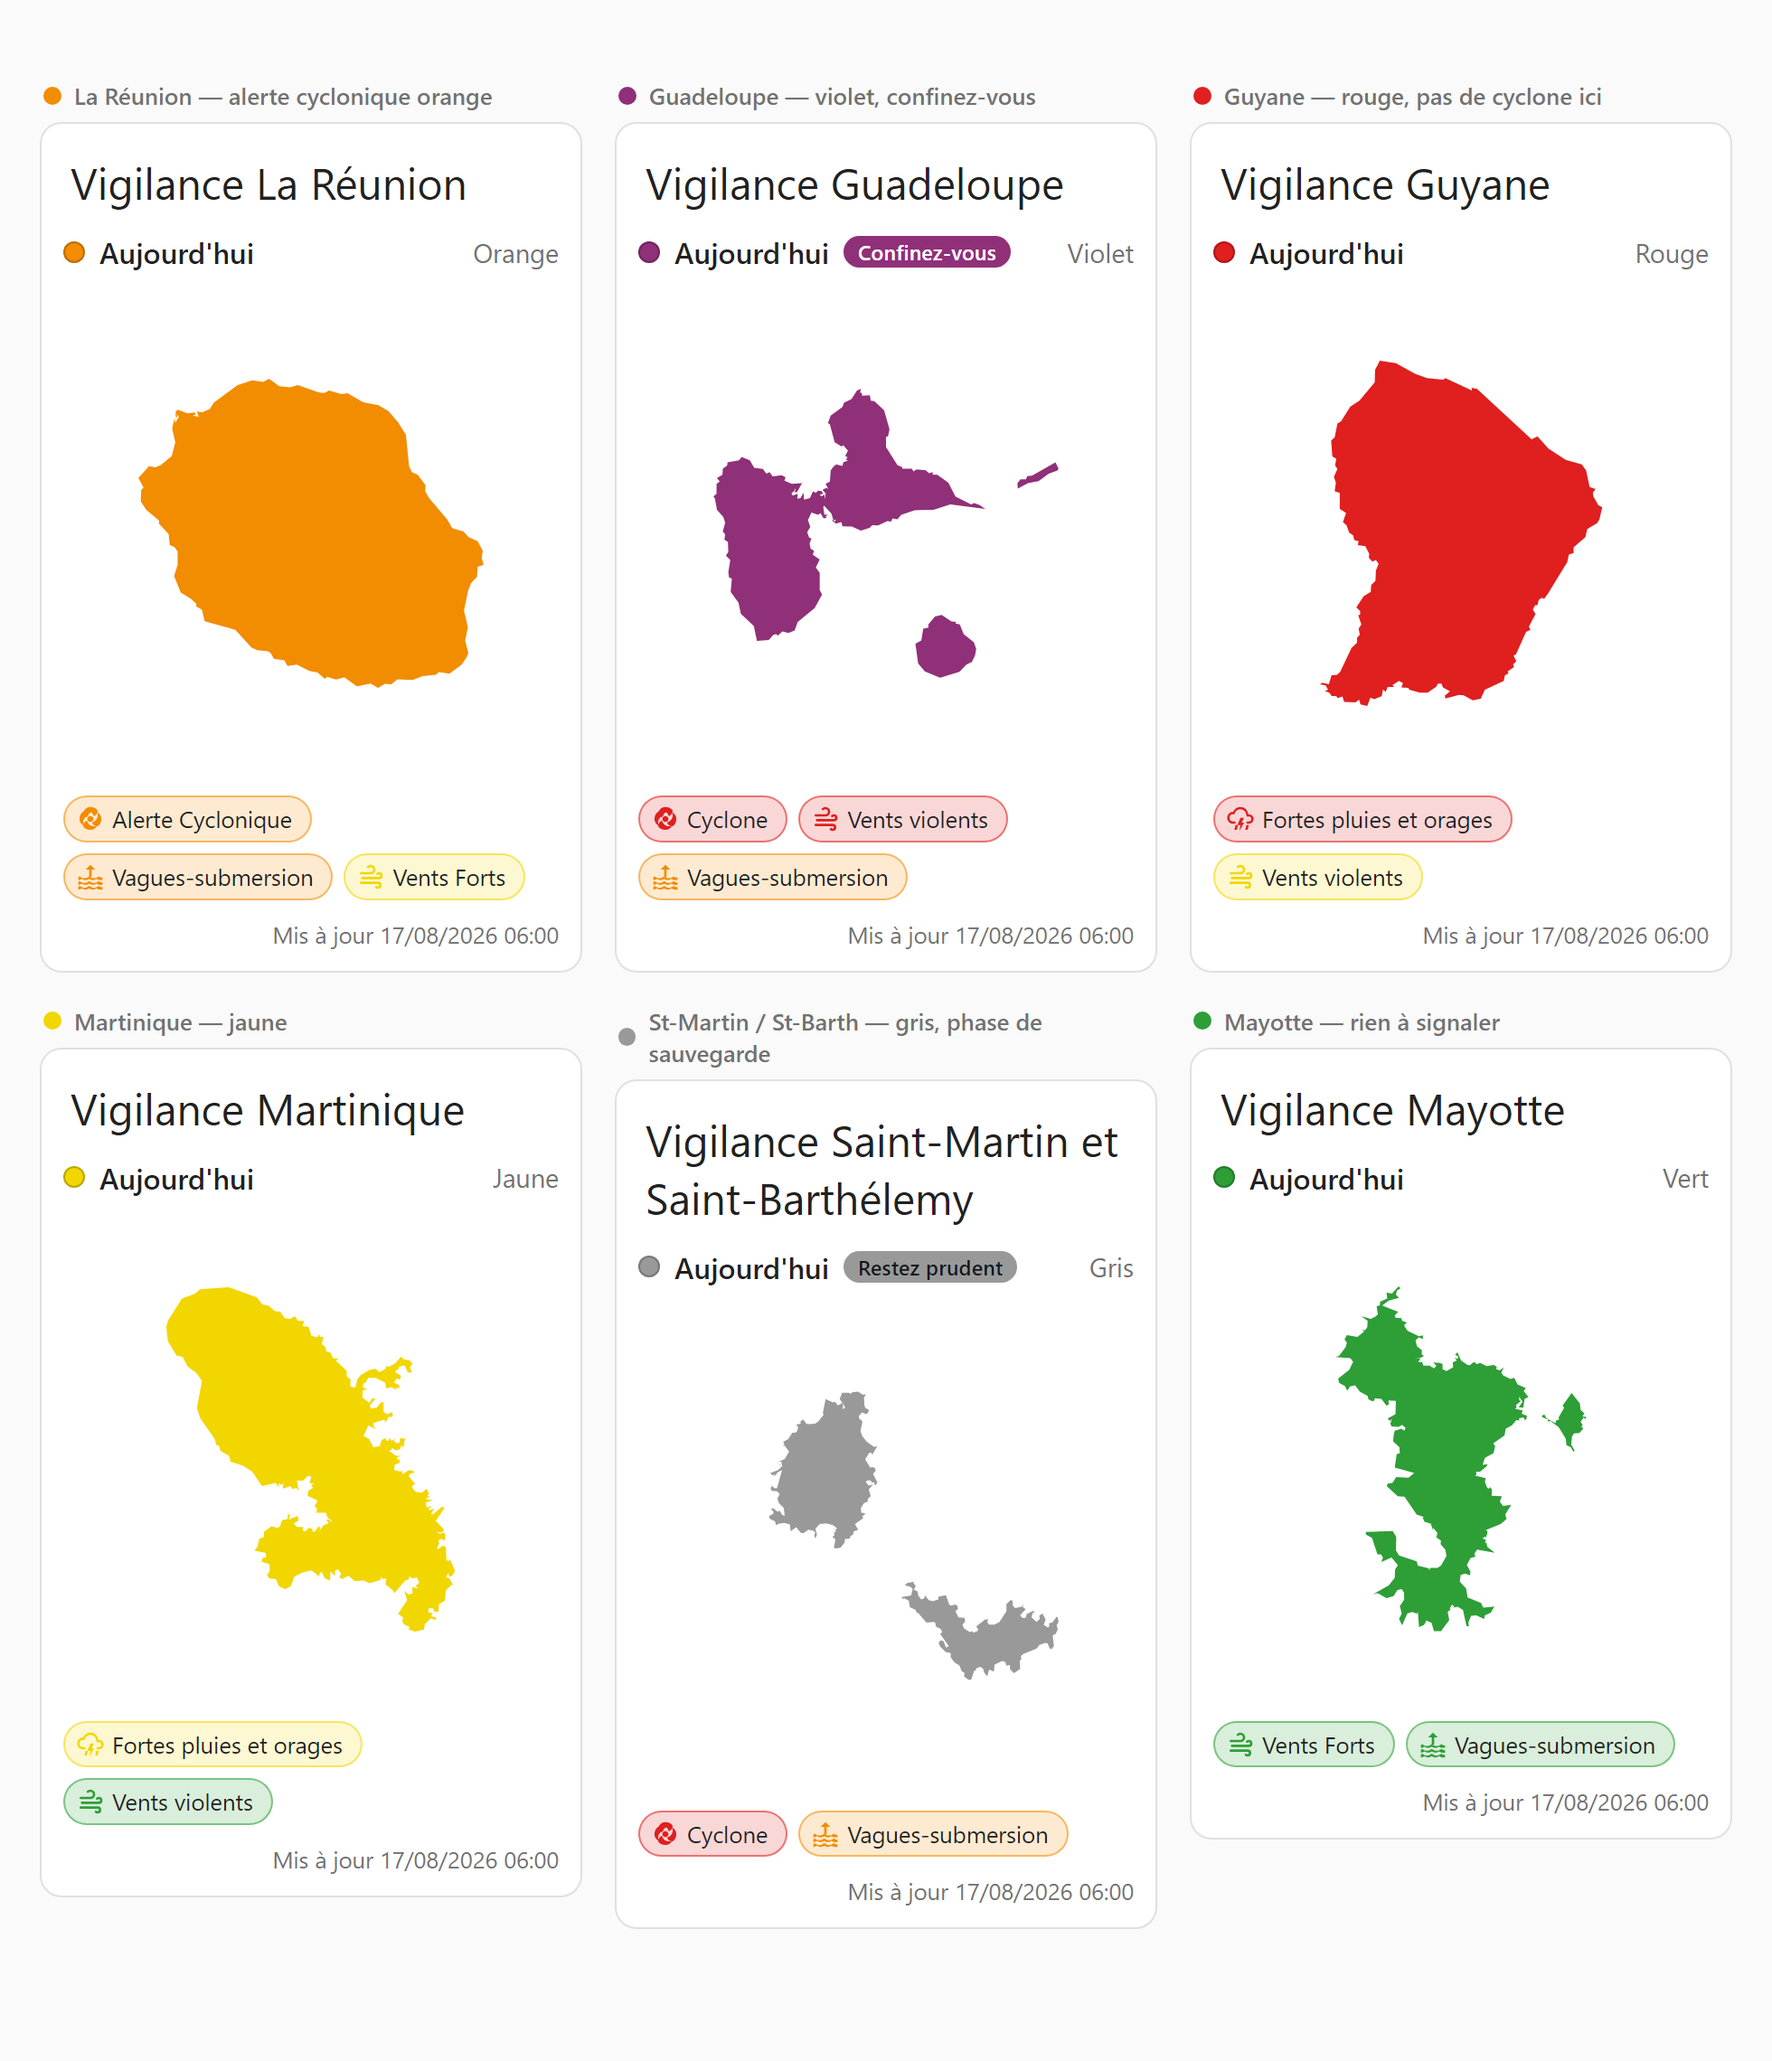
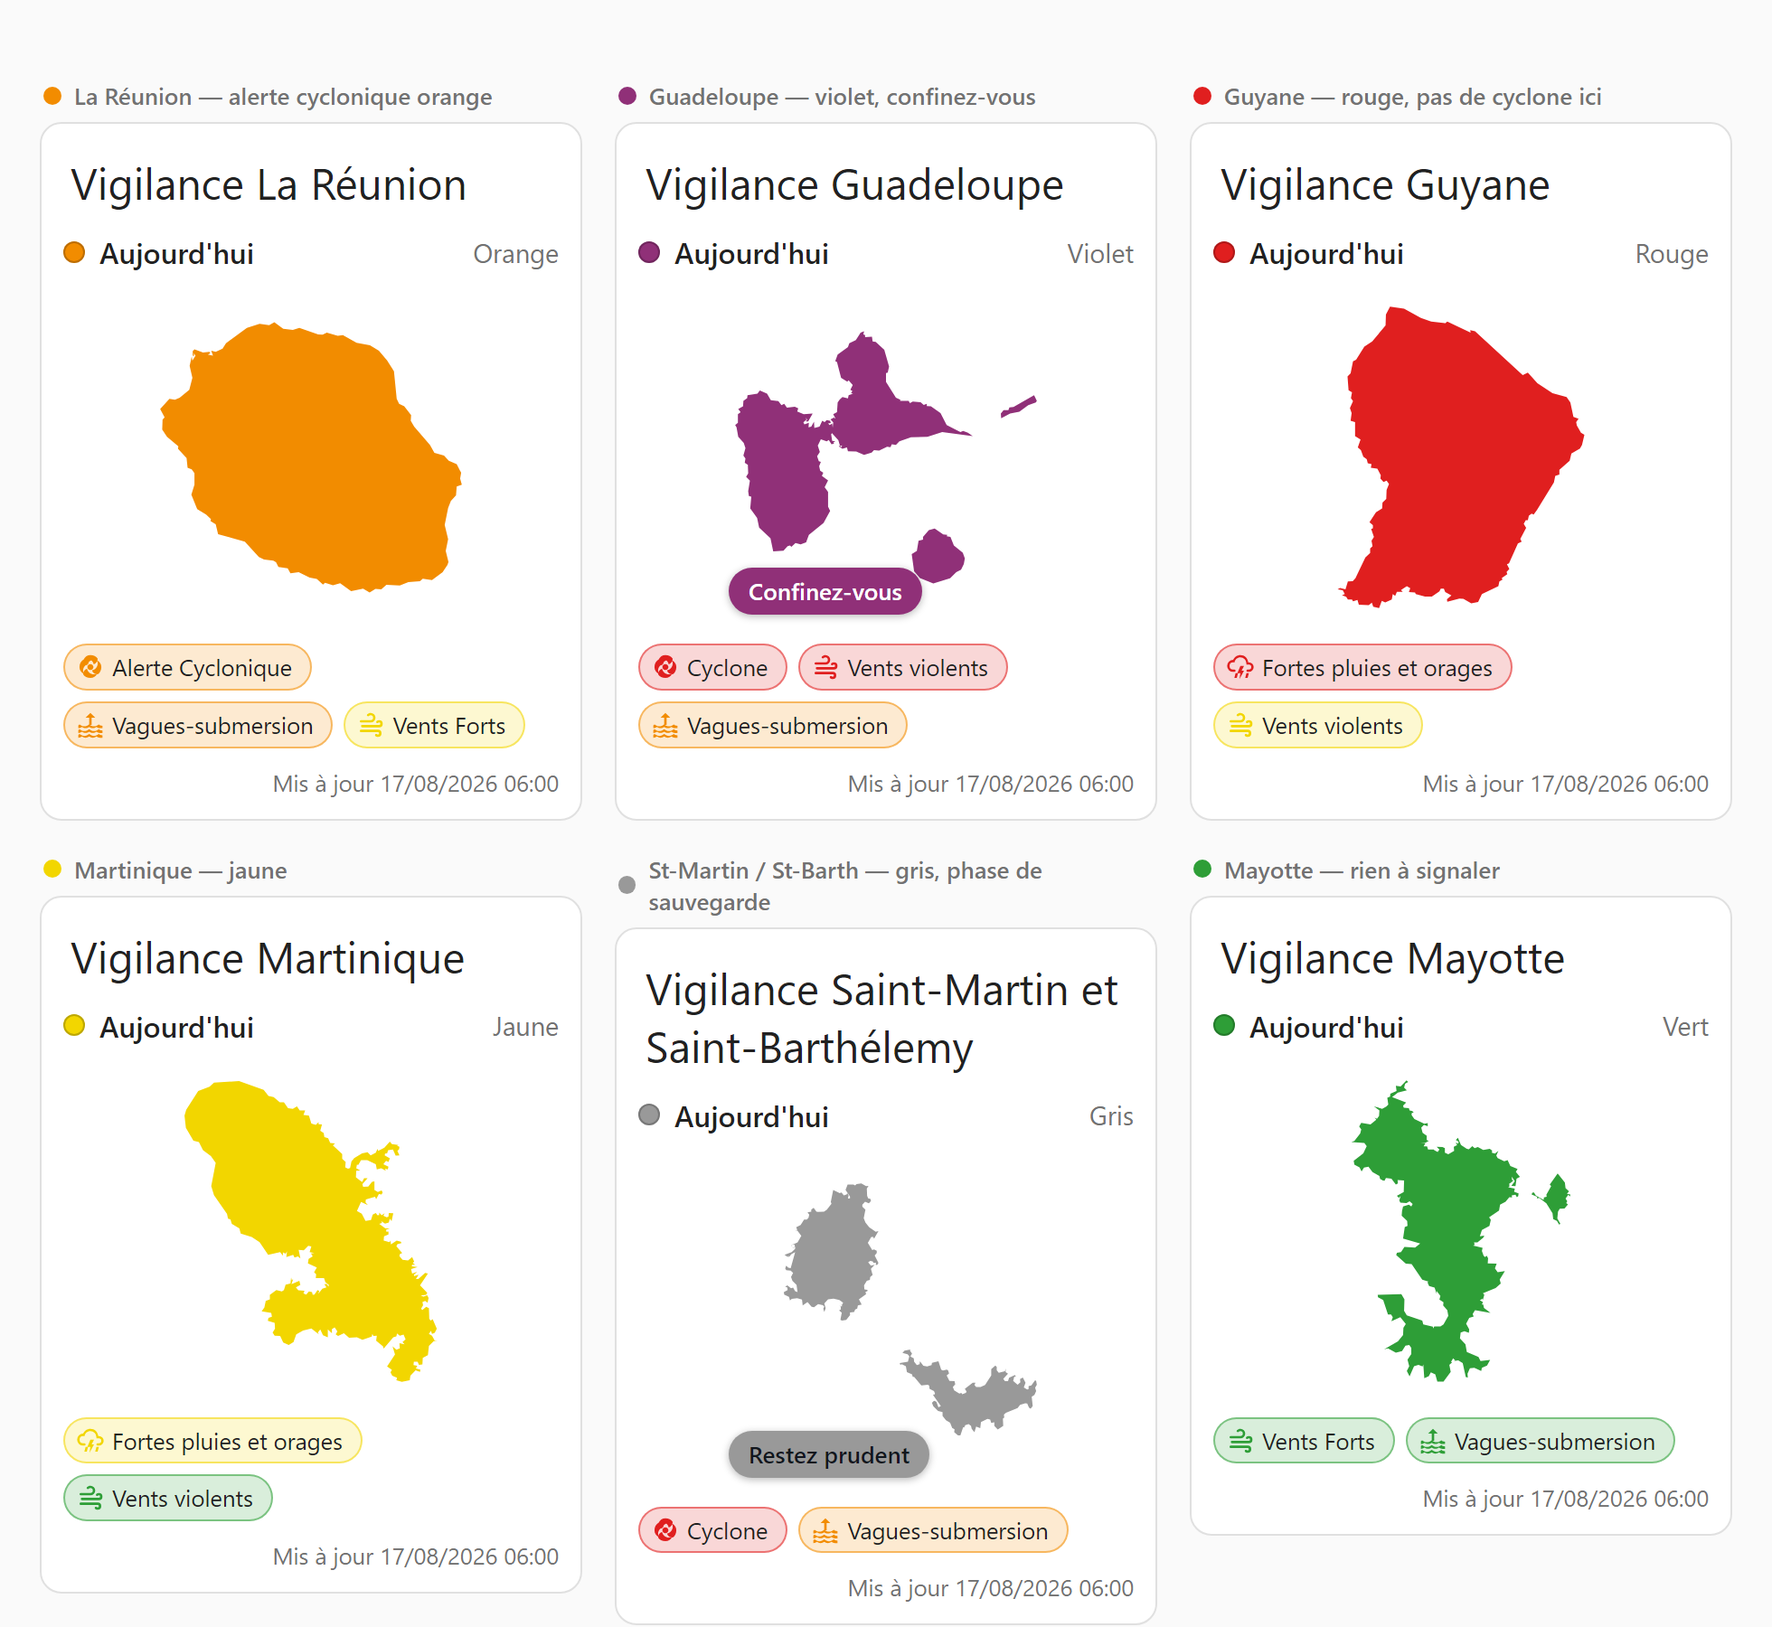
v2 : la consigne rejoint le badge du bulletin périmé
Elle s'affichait dans l'en-tête quand l'autre badge se pose sur l'image :
deux mises en garde de même nature à deux endroits différents. La consigne
est désormais posée sur l'image, en bas à gauche — le « périmé » occupe le
haut, les deux ne se rencontrent jamais — et reprend sa place dans la ligne
là où il n'y a pas d'image, en compact et en chronologie.

Leurs proportions sont celles des puces de phénomènes, qui se lisent juste en
dessous : même hauteur, même arrondi, même épaisseur, jusqu'à une bordure
transparente qui tient la place de la leur.

L'emplacement se décide sur la configuration et non sur ce que le bloc
affiche : la méthode qui remplit l'en-tête passe avant celle qui pose
l'image, et interroger le style ne disait que l'état du rendu précédent.

diff --git a/custom_components/meteo_france_vigilance/frontend/meteo-france-vigilance-card.js b/custom_components/meteo_france_vigilance/frontend/meteo-france-vigilance-card.js
@@ -664,7 +664,7 @@ class MeteoFranceVigilanceCard extends HTMLElement {
       <div class="head">
         <span class="dot"></span>
         <span class="label">${escapeHtml(label)}</span>
-        <span class="notice" style="display:none"></span>
+        <span class="notice inline" style="display:none"></span>
         <span class="level"></span>
       </div>`;
   }
@@ -681,6 +681,7 @@ class MeteoFranceVigilanceCard extends HTMLElement {
               <img class="map" alt="${t[period]}" />
               <div class="inset-mask"></div>
               <div class="stale" style="display:none">${t.expired}</div>
+              <div class="notice on-map" style="display:none"></div>
             </div>
             <div class="chips"></div>
             <div class="comment" style="display:none"></div>
@@ -698,7 +699,7 @@ class MeteoFranceVigilanceCard extends HTMLElement {
           <div class="head bare">
             <span class="dot"></span>
             <span class="label">${t[main]}</span>
-            <span class="notice" style="display:none"></span>
+            <span class="notice inline" style="display:none"></span>
             <span class="level"></span>
           </div>
           <div class="map-wrap" style="display:none">
@@ -707,10 +708,11 @@ class MeteoFranceVigilanceCard extends HTMLElement {
             <div class="overlay">
               <span class="dot"></span>
               <span class="label">${t[main]}</span>
-              <span class="notice" style="display:none"></span>
+              <span class="notice inline" style="display:none"></span>
               <span class="level"></span>
             </div>
             <div class="stale" style="display:none">${t.expired}</div>
+            <div class="notice on-map" style="display:none"></div>
           </div>
           <div class="chips"></div>
           <div class="comment" style="display:none"></div>
@@ -722,7 +724,7 @@ class MeteoFranceVigilanceCard extends HTMLElement {
             <div class="head">
               <span class="dot"></span>
               <span class="label">${t[period]}</span>
-              <span class="notice" style="display:none"></span>
+              <span class="notice inline" style="display:none"></span>
               <span class="level"></span>
               <span class="icon-row"></span>
             </div>
@@ -742,7 +744,7 @@ class MeteoFranceVigilanceCard extends HTMLElement {
             <div class="head">
               <span class="dot"></span>
               <span class="label"></span>
-              <span class="notice" style="display:none"></span>
+              <span class="notice inline" style="display:none"></span>
               <span class="level"></span>
               <span class="icon-row"></span>
             </div>
@@ -864,10 +866,21 @@ class MeteoFranceVigilanceCard extends HTMLElement {
     // qui ne connaît pas l'échelle antillaise, « Confinez-vous » si.
     const consigne =
       NATIVE_NOTICE[isFrench(this._hass) ? "fr" : "en"][attrs.color_native];
+    // Sur l'image quand il y en a une, dans la ligne sinon : deux badges qui
+    // disent la même sorte de chose ne doivent pas s'afficher à deux endroits.
+    //
+    // La décision se prend sur la configuration, non sur ce que le bloc
+    // affiche déjà : cette méthode passe avant celle qui pose l'image, et
+    // interroger le style ne dirait que l'état du rendu précédent.
+    const surImage =
+      Boolean(parts.mapWrap) &&
+      this._config.show_map &&
+      !["compact", "chronologie"].includes(this._config.layout);
+    const fond = attrs.color_hex || "#e01f1f";
     for (const node of parts.node.querySelectorAll(".notice")) {
+      const sien = node.classList.contains("on-map") ? surImage : !surImage;
       node.textContent = consigne || "";
-      node.style.display = consigne ? "" : "none";
-      const fond = attrs.color_hex || "#e01f1f";
+      node.style.display = consigne && sien ? "" : "none";
       node.style.background = fond;
       node.style.color = readableInk(fond);
     }
@@ -1310,14 +1323,22 @@ class MeteoFranceVigilanceCard extends HTMLElement {
       /* La silhouette d'un territoire d'outre-mer, dessinée faute de
          vignette officielle. Même encombrement qu'une image, pour que les
          deux dispositions se comportent pareil. */
+      /* La silhouette d'un territoire n'a pas à occuper un carré : la
+         Guadeloupe et les îles du Nord y flottent, alors que la Guyane le
+         remplit. Une hauteur fixe les met toutes à la même échelle
+         apparente, et laisse la carte garder la hauteur de ses voisines. */
+      .map-wrap:has(svg.shape) {
+        aspect-ratio: auto;
+        height: var(--mfv-shape-height, 190px);
+        flex: 0 0 auto;
+      }
       svg.shape {
         width: 100%; height: 100%; display: block;
-        /* La vignette officielle porte une large marge blanche autour de
-           l'Hexagone : la silhouette dessinée en garde autant, pour que les
-           deux se ressemblent dans une même vue. */
-        padding: 12%;
+        padding: 4px;
         box-sizing: border-box;
       }
+      /* En focus, la silhouette prend la place que la vignette occuperait. */
+      .layout-focus .map-wrap:has(svg.shape) { height: var(--mfv-shape-height, 280px); }
       img.map {
         width: 100%; height: 100%; display: block;
         border-radius: var(--ha-card-border-radius, 12px);
@@ -1381,14 +1402,31 @@ class MeteoFranceVigilanceCard extends HTMLElement {
       /* La consigne d'un niveau exceptionnel, à côté du jour : elle doit se
          voir sans écraser le reste, et vaut dans toutes les dispositions —
          y compris la compacte, qui n'a pas de vignette où poser un badge. */
-      .notice {
-        padding: 1px 8px; border-radius: 10px;
-        font-size: 0.72em; font-weight: 600; letter-spacing: 0.01em;
-        white-space: nowrap;
+      /* La consigne et le « bulletin périmé » disent la même sorte de chose —
+         une mise en garde qui prime sur le reste — et se ressemblent donc :
+         même taille, même arrondi, même épaisseur. Seules la place et la
+         couleur les distinguent. */
+      .notice, .stale {
+        /* Les mêmes proportions que les puces de phénomènes, qui se lisent
+           juste en dessous : même hauteur de texte, même arrondi, même
+           épaisseur. Une bordure transparente tient la place de celle des
+           puces, pour que les hauteurs coïncident au pixel près. */
+        display: inline-flex; align-items: center;
+        padding: 3px 10px; border-radius: 16px;
+        border: 1px solid transparent;
+        font-size: 0.8em; line-height: 1.4; font-weight: 600;
+        letter-spacing: 0.01em; white-space: nowrap;
       }
-      /* La consigne suit le nom du jour, qu'elle qualifie ; le niveau garde
-         sa place à droite de la ligne. */
-      .notice { margin-right: auto; }
+      /* Posée sur l'image, la consigne se lit en bas à gauche — le badge
+         « périmé » occupe le haut, et les deux ne se rencontrent jamais. */
+      .notice.on-map {
+        position: absolute; bottom: 8px; left: 8px;
+        z-index: 2;
+        box-shadow: 0 1px 4px rgba(0, 0, 0, 0.28);
+      }
+      /* Sans image, elle reprend sa place dans la ligne, après le nom
+         qu'elle qualifie. */
+      .notice.inline { margin-right: auto; }
 
       /* En compact, la ligne porte le nom du domaine, qui peut être long —
          « Saint-Martin et Saint-Barthélemy » tient mal à côté d'une consigne
@@ -1406,10 +1444,11 @@ class MeteoFranceVigilanceCard extends HTMLElement {
       .compact .notice, .compact .level, .compact .icon-row { flex: 0 0 auto; }
 
       .stale {
-        position: absolute; top: 6px; left: 6px;
-        padding: 2px 8px; border-radius: 12px;
-        font-size: 0.75em; color: #fff;
+        position: absolute; top: 8px; left: 8px;
+        z-index: 2;
+        color: #fff;
         background: var(--error-color, #e01f1f);
+        box-shadow: 0 1px 4px rgba(0, 0, 0, 0.28);
       }
       .chips { display: flex; flex-wrap: wrap; gap: 6px; }
       .chip {
